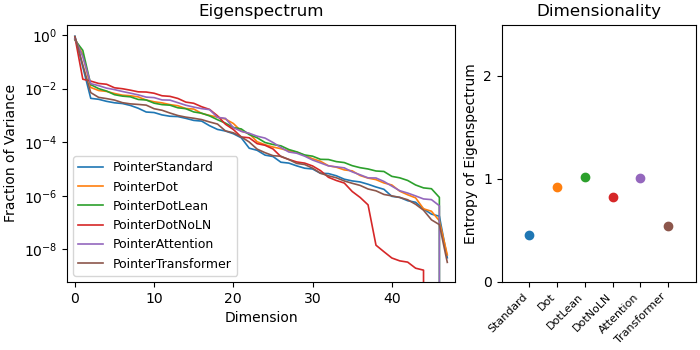
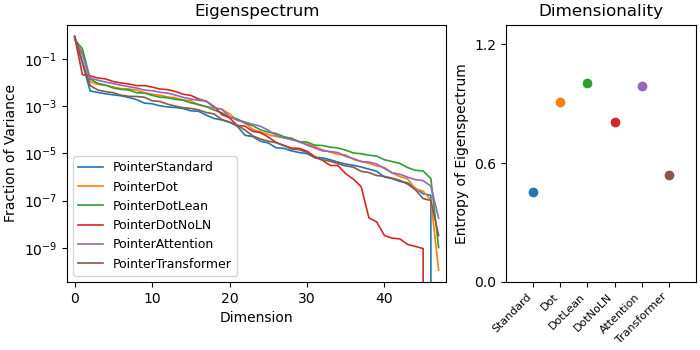
plot updates

diff --git a/experiments/pointerArchitectureComparison.py b/experiments/pointerArchitectureComparison.py
@@ -309,7 +309,7 @@ def plotResults(results, args, eigvals):
     numPos = results['testScoreByPos'].shape[1]
     n_string = f" (N={numNets})"
     cmap = mpl.colormaps['tab10']
-    trainInspectFrom = [1500, 2000]
+    trainInspectFrom = [800, 900]
     trainInspect = slice(trainInspectFrom[0], trainInspectFrom[1])
     
     fig, ax = plt.subplots(1,2,figsize=(7,3.5), width_ratios=[2, 1], layout='constrained')
@@ -318,6 +318,7 @@ def plotResults(results, args, eigvals):
     ax[0].set_xlabel('Training Epoch')
     ax[0].set_ylabel('Mean Reward'+n_string)
     ax[0].set_title('Training Performance')
+    ax[0].set_xlim(-50, 1000)
     ax[0].set_ylim(None, 8)
     yMin0, yMax0 = ax[0].get_ylim()
 
@@ -336,17 +337,6 @@ def plotResults(results, args, eigvals):
     ax[1].set_ylim(6, 8)
     ax[1].set_yticks([6, 7, 8])
 
-    # create inset to show initial train trajectory
-    inset = ax[0].inset_axes([0.5, 0.1, 0.45, 0.45])
-    for idx, name in enumerate(POINTER_METHODS):
-        inset.plot(range(args.train_epochs), torch.mean(results['trainReward'][:,idx],dim=1), color=cmap(idx), lw=1.2, label=name)
-    inset.set_xlim(-20, 400)
-    inset.set_ylim(yMin0, 8)
-    inset.set_xticks([0, 200, 400])
-    inset.set_xticklabels(inset.get_xticklabels(), fontsize=8)
-    inset.set_yticklabels([])
-    inset.set_title('Initial Epochs', fontsize=10)
-    
     width = trainInspectFrom[1]-trainInspectFrom[0]
     height = yMax0 - yMin0
     rect = mpl.patches.Rectangle([trainInspectFrom[0], yMin0], width, height, facecolor='k', edgecolor='none', alpha=0.2)
@@ -410,8 +400,8 @@ def plotResults(results, args, eigvals):
     ax[1].set_xticklabels([pmethod[7:] for pmethod in POINTER_METHODS], rotation=45, ha='right', fontsize=8)
     ax[1].set_xlim(-1, len(POINTER_METHODS))
     _, yMax = ax[1].get_ylim()
-    ax[1].set_ylim(0, 2.5)
-    ax[1].set_yticks(np.linspace(0, 2, 3))
+    ax[1].set_ylim(0, 1.3)
+    ax[1].set_yticks(np.linspace(0, 1.2, 3))
     
     if not(args.nosave):
         plt.savefig(str(figsPath/getFileName('eigenvalues')))
